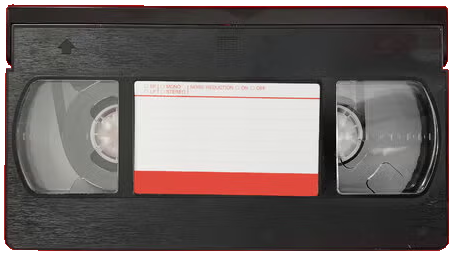
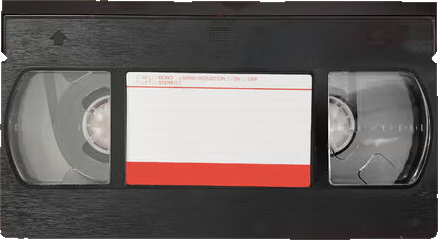
Recut the tape, stack it above the game, and spin the reel once.
The cassette edge is defringed. The logo reel spins fast, settles on a brand, and a Respin button runs it again.

Changed region(s): [[0.0, 0.0, 1.0, 1.0], [0.1484, 0.6417, 0.1781, 0.7]]

diff --git a/src/components/LogoReel.tsx b/src/components/LogoReel.tsx
@@ -1,7 +1,7 @@
 'use client'
 
 import Link from 'next/link'
-import { useCallback, useEffect, useRef, useState } from 'react'
+import { useCallback, useEffect, useMemo, useRef, useState } from 'react'
 import SanityImage from '@/components/SanityImage'
 import type { SanityImageValue } from '@/lib/sanityImage'
 import { prefersReducedMotion } from '@/lib/vhsSession'
@@ -13,7 +13,14 @@ export type ReelBrand = {
   logo?: SanityImageValue | null
 }
 
-const SPIN_MS = 3200
+const SPIN_MS = 2200
+const FADE_MS = 280
+const LOOPS = 5
+const COPIES = 8
+
+function easeOutQuart(t: number) {
+  return 1 - (1 - t) ** 4
+}
 
 export default function LogoReel({
   brands,
@@ -24,25 +31,99 @@ export default function LogoReel({
   status: 'loading' | 'ready' | 'error'
   onRetry: () => void
 }) {
-  const [index, setIndex] = useState(0)
-  const [paused, setPaused] = useState(false)
+  const [landed, setLanded] = useState<number | null>(null)
+  const [spinning, setSpinning] = useState(false)
   const [slot, setSlot] = useState(72)
-  const [smooth, setSmooth] = useState(true)
   const windowRef = useRef<HTMLDivElement>(null)
-  const indexRef = useRef(0)
-  const touchY = useRef<number | null>(null)
-
+  const trackRef = useRef<HTMLUListElement>(null)
+  const offsetRef = useRef(0)
+  const slotRef = useRef(72)
+  const rafRef = useRef<number | null>(null)
+  const reduceRef = useRef(false)
+  const startedRef = useRef(false)
   const count = brands.length
-  const brand = brands[index]
+  const brand = landed != null ? brands[landed] : null
   const href = brand ? `/${brand.slug.current}` : '/'
 
-  useEffect(() => {
-    indexRef.current = index
-  }, [index])
+  const strip = useMemo(() => {
+    const rows: Array<{ brand: ReelBrand; key: string }> = []
+    for (let copy = 0; copy < COPIES; copy += 1) {
+      brands.forEach((item) => {
+        rows.push({ brand: item, key: `${item._id}-${copy}` })
+      })
+    }
+    return rows
+  }, [brands])
+
+  const paint = useCallback((pos: number, blur: number, opacity = 1) => {
+    const node = trackRef.current
+    if (!node) return
+    node.style.transform = `translate3d(0, ${-pos * slotRef.current}px, 0)`
+    node.style.filter = blur > 0.4 ? `blur(${blur}px)` : 'none'
+    node.style.opacity = String(opacity)
+  }, [])
+
+  const stop = useCallback(() => {
+    if (rafRef.current != null) cancelAnimationFrame(rafRef.current)
+    rafRef.current = null
+  }, [])
+
+  const spinTo = useCallback((index: number) => {
+    if (!count) return
+    stop()
+    if (reduceRef.current) {
+      offsetRef.current = index
+      paint(index, 0, 0.15)
+      setLanded(index)
+      setSpinning(true)
+      const t0 = performance.now()
+      const tick = (now: number) => {
+        const t = Math.min(1, (now - t0) / FADE_MS)
+        paint(index, 0, 0.15 + 0.85 * t)
+        if (t < 1) rafRef.current = requestAnimationFrame(tick)
+        else setSpinning(false)
+      }
+      rafRef.current = requestAnimationFrame(tick)
+      return
+    }
+
+    const start = offsetRef.current % count
+    const delta = (index - Math.round(start) + count) % count
+    const end = start + LOOPS * count + delta
+    offsetRef.current = start
+    setLanded(null)
+    setSpinning(true)
+    const t0 = performance.now()
+    const tick = (now: number) => {
+      const t = Math.min(1, (now - t0) / SPIN_MS)
+      let pos = start + (end - start) * easeOutQuart(t)
+      if (t > 0.72) {
+        const u = (t - 0.72) / 0.28
+        pos += Math.sin(u * Math.PI) * 0.42 * (1 - u * 0.15)
+      }
+      const blur = t < 0.5 ? 6 : t < 0.78 ? 2.5 : 0
+      offsetRef.current = pos
+      paint(pos, blur, 1)
+      if (t < 1) {
+        rafRef.current = requestAnimationFrame(tick)
+        return
+      }
+      offsetRef.current = end
+      paint(end, 0, 1)
+      setLanded(index)
+      setSpinning(false)
+    }
+    rafRef.current = requestAnimationFrame(tick)
+  }, [count, paint, stop])
 
   useEffect(() => {
-    if (prefersReducedMotion()) setPaused(true)
+    reduceRef.current = prefersReducedMotion()
   }, [])
+
+  useEffect(() => {
+    slotRef.current = slot
+    paint(offsetRef.current, 0, trackRef.current ? Number(trackRef.current.style.opacity || 1) : 1)
+  }, [slot, paint])
 
   useEffect(() => {
     const node = windowRef.current
@@ -55,83 +136,46 @@ export default function LogoReel({
   }, [status])
 
   useEffect(() => {
-    if (paused || status !== 'ready' || count < 2 || prefersReducedMotion()) return
-    const timer = window.setInterval(() => {
-      setSmooth(true)
-      setIndex((value) => (value + 1) % count)
-    }, SPIN_MS)
-    return () => window.clearInterval(timer)
-  }, [paused, status, count])
+    if (status !== 'ready' || count < 1 || startedRef.current) return
+    startedRef.current = true
+    spinTo(Math.floor(Math.random() * count))
+  }, [status, count, spinTo])
 
-  const step = useCallback((direction: number) => {
-    if (!count) return
-    setPaused(true)
-    const next = (indexRef.current + direction + count) % count
-    const jump = Math.abs(next - indexRef.current)
-    setSmooth(jump === 1 || jump === count - 1)
-    setIndex(next)
-  }, [count])
+  useEffect(() => () => stop(), [stop])
 
-  useEffect(() => {
-    function onKey(event: KeyboardEvent) {
-      const target = event.target as HTMLElement | null
-      if (target && (target.tagName === 'INPUT' || target.tagName === 'TEXTAREA' || target.isContentEditable)) return
-      if (event.key !== 'ArrowUp' && event.key !== 'ArrowDown') return
-      event.preventDefault()
-      step(event.key === 'ArrowDown' ? 1 : -1)
+  function respin() {
+    if (spinning || !count) return
+    let next = Math.floor(Math.random() * count)
+    if (count > 1 && landed != null) {
+      while (next === landed) next = Math.floor(Math.random() * count)
     }
-    window.addEventListener('keydown', onKey)
-    return () => window.removeEventListener('keydown', onKey)
-  }, [step])
+    spinTo(next)
+  }
+
+  const label = status === 'error'
+    ? 'Brands unavailable'
+    : status !== 'ready'
+      ? 'Loading brands'
+      : spinning && landed == null
+        ? 'Spinning'
+        : brand?.name ?? ''
 
   return (
     <div className="tape-hero">
       <div className="tape-stage">
         <picture>
           <source srcSet="/vhs-tape.webp" type="image/webp" />
-          <img className="tape-photo" src="/vhs-tape.png" alt="" width={453} height={255} />
+          <img className="tape-photo" src="/vhs-tape.png" alt="" width={438} height={240} />
         </picture>
-        <div
-          ref={windowRef}
-          className="tape-window"
-          tabIndex={0}
-          role="group"
-          aria-roledescription="carousel"
-          aria-label="Manufacturer reel"
-          onTouchStart={(event) => {
-            touchY.current = event.changedTouches[0]?.clientY ?? null
-          }}
-          onTouchEnd={(event) => {
-            if (touchY.current == null) return
-            const delta = (event.changedTouches[0]?.clientY ?? touchY.current) - touchY.current
-            if (delta > 36) step(-1)
-            if (delta < -36) step(1)
-            touchY.current = null
-          }}
-          onKeyDown={(event) => {
-            if (event.key === 'ArrowDown') {
-              event.preventDefault()
-              event.stopPropagation()
-              step(1)
-            }
-            if (event.key === 'ArrowUp') {
-              event.preventDefault()
-              event.stopPropagation()
-              step(-1)
-            }
-          }}
-        >
+        <div ref={windowRef} className="tape-window" aria-hidden={spinning || !brand}>
           {status === 'ready' && count > 0 ? (
-            <ul
-              className={smooth ? 'tape-track is-smooth' : 'tape-track'}
-              style={{ transform: `translateY(${-index * slot}px)` }}
-            >
-              {brands.map((item, itemIndex) => (
-                <li key={item._id} className={itemIndex === index ? 'tape-slot is-on' : 'tape-slot'} style={{ height: slot }} aria-hidden={itemIndex !== index}>
-                  {item.logo?.asset?._ref ? (
-                    <SanityImage image={item.logo} alt="" sizes="180px" width={200} height={80} className="reel-logo" />
+            <ul ref={trackRef} className="tape-track">
+              {strip.map((item, itemIndex) => (
+                <li key={item.key} className="tape-slot" style={{ height: slot }} aria-hidden={itemIndex % count !== landed}>
+                  {item.brand.logo?.asset?._ref ? (
+                    <SanityImage image={item.brand.logo} alt="" sizes="220px" width={200} height={80} eager className="reel-logo" />
                   ) : (
-                    <span className="reel-fallback">{item.name}</span>
+                    <span className="reel-fallback">{item.brand.name}</span>
                   )}
                 </li>
               ))}
@@ -140,27 +184,19 @@ export default function LogoReel({
             <p className="tape-window-note">{status === 'error' ? 'Signal lost' : 'Loading'}</p>
           )}
         </div>
-        {brand ? <Link href={href} className="tape-hit" tabIndex={-1} aria-hidden="true" /> : null}
+        {!spinning && brand ? <Link href={href} className="tape-hit" aria-label={brand.name} /> : null}
       </div>
 
-      <p className="tape-brand" aria-live="polite">{brand?.name ?? (status === 'error' ? 'Brands unavailable' : 'Loading brands')}</p>
+      <p className="tape-brand" aria-live="polite">{label}</p>
 
       <div className="tape-controls">
-        <button type="button" className="btn" onClick={() => step(-1)} disabled={!count} aria-label="Previous brand">
-          Up
+        <button type="button" className="btn btn-accent" onClick={respin} disabled={spinning || status !== 'ready' || !count}>
+          Respin
         </button>
-        {brand ? (
-          <Link href={href} className="btn btn-accent">Play</Link>
-        ) : (
-          <button type="button" className="btn btn-accent" disabled>Play</button>
-        )}
-        <button type="button" className="btn" onClick={() => step(1)} disabled={!count} aria-label="Next brand">
-          Down
-        </button>
+        {status === 'error' ? (
+          <button type="button" className="btn" onClick={onRetry}>Retry</button>
+        ) : null}
       </div>
-      {status === 'error' ? (
-        <button type="button" className="btn" onClick={onRetry}>Retry</button>
-      ) : null}
       {status === 'ready' && count === 0 ? <p className="state">No brands in the deck.</p> : null}
     </div>
   )

diff --git a/src/components/home-game.css b/src/components/home-game.css
@@ -7,11 +7,12 @@
   width: min(var(--page), calc(100% - 32px));
   margin: 0 auto;
   display: grid;
-  gap: var(--space-5);
-  align-items: center;
+  gap: var(--space-6);
+  justify-items: center;
 }
 
 .tape-hero {
+  width: min(100%, 720px);
   display: grid;
   justify-items: center;
   gap: var(--space-3);
@@ -19,8 +20,8 @@
 
 .tape-stage {
   position: relative;
-  width: min(100%, 560px);
-  aspect-ratio: 453 / 255;
+  width: 100%;
+  aspect-ratio: 438 / 240;
 }
 
 .tape-stage picture,
@@ -38,10 +39,10 @@
 
 .tape-stage .tape-window {
   position: absolute;
-  left: 30%;
-  top: 34%;
-  width: 40%;
-  height: 30%;
+  left: 27%;
+  top: 33%;
+  width: 46%;
+  height: 28%;
   margin: 0;
   overflow: hidden;
   z-index: 2;
@@ -61,10 +62,7 @@
   margin: 0;
   padding: 0;
   list-style: none;
-}
-
-.tape-track.is-smooth {
-  transition: transform 0.9s ease;
+  will-change: transform;
 }
 
 .tape-slot {
@@ -80,12 +78,7 @@ img.reel-logo {
   max-height: 70% !important;
   object-fit: contain !important;
   margin: 0 !important;
-  opacity: 0.38;
-}
-
-.tape-slot.is-on img,
-.tape-slot.is-on img.reel-logo {
-  opacity: 0.88;
+  opacity: 0.92;
 }
 
 .reel-fallback,
@@ -132,6 +125,7 @@ img.reel-logo {
 }
 
 .home-play {
+  width: min(100%, 720px);
   display: grid;
   gap: var(--space-3);
 }
@@ -367,13 +361,8 @@ img.reel-logo {
   padding-block: 8px;
 }
 
-@media (max-width: 799px) {
-  .home-play { order: -1; }
-}
-
 @media (min-width: 800px) {
   .home-grid {
-    grid-template-columns: minmax(0, 1.15fr) minmax(280px, 0.85fr);
     width: min(var(--page), calc(100% - 64px));
   }
 
@@ -392,7 +381,7 @@ img.reel-logo {
 }
 
 @media (prefers-reduced-motion: reduce) {
-  .tape-track.is-smooth { transition: none; }
+  .tape-track { filter: none; }
   .game-still.is-motion.is-right,
   .game-still.is-motion.is-wrong { animation: none; }
 }
